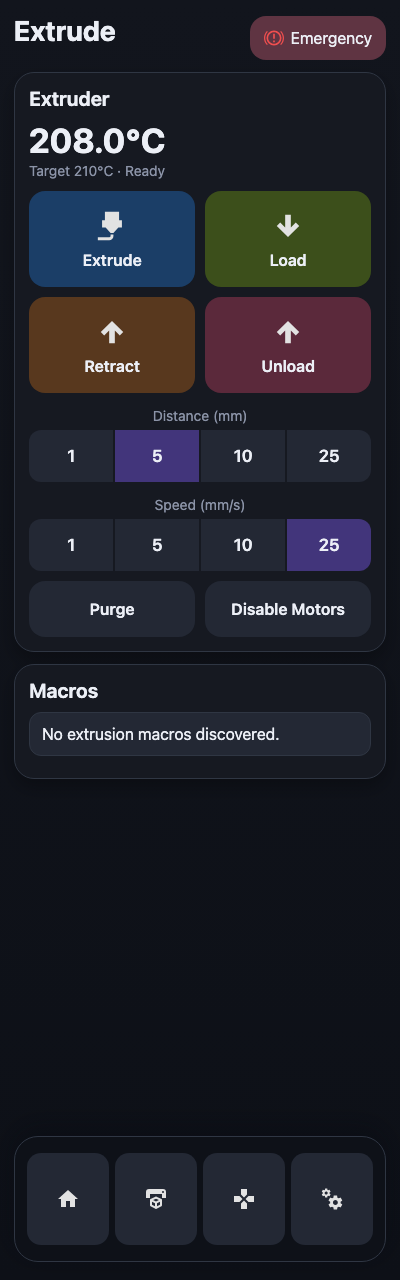
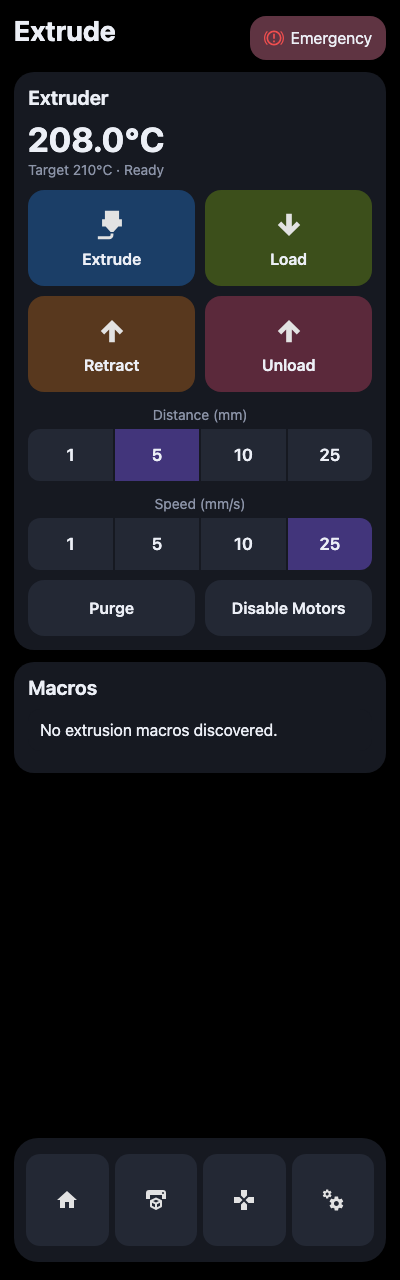
made some ui improvements

diff --git a/src/styles/theme.css b/src/styles/theme.css
@@ -61,7 +61,7 @@ body[data-theme='orange'] {
 }
 
 body[data-theme='white'] {
-  --bg: #141414;
+  --bg: #000;
   --surface: #202022;
   --surface-soft: #252527;
   --surface-strong: #303032;
@@ -104,7 +104,7 @@ button {
 body {
   margin: 0;
   min-height: 100vh;
-  background: radial-gradient(circle at 15% 0%, #1a1f2a 0%, #10131a 38%, #0b0d13 100%);
+  background: #000;
   font-family: -apple-system, BlinkMacSystemFont, 'SF Pro Text', 'Inter', sans-serif;
   color: var(--text);
   display: flex;
@@ -119,7 +119,7 @@ body {
   flex: 0 0 auto;
   border-radius: 0;
   overflow: hidden;
-  background: linear-gradient(180deg, #12151d, #0d1017);
+  background: #000;
   position: relative;
 }
 
@@ -252,9 +252,9 @@ body {
 .filament-card,
 .status-chip {
   background: var(--surface);
-  border: 1px solid var(--border);
+  border: 0;
   border-radius: var(--radius-md);
-  box-shadow: 0 8px 18px rgba(0, 0, 0, 0.28);
+  box-shadow: none;
 }
 
 .stats {
@@ -320,7 +320,7 @@ body {
   display: block;
   padding: 16px 14px;
   border-radius: 14px;
-  border: 1px solid var(--border);
+  border: 0;
   text-decoration: none;
   color: var(--text);
   font-size: calc(21px * var(--text-scale, 1));
@@ -413,17 +413,13 @@ body {
   text-decoration: none;
 }
 
-.btn:active:not(:disabled) {
-  background: color-mix(in srgb, var(--accent) 40%, var(--surface-strong));
-}
-
 .file-item,
 .console-line,
 .macro-item {
   padding: 12px 12px;
-  border: 1px solid var(--border);
+  border: 0;
   border-radius: 12px;
-  background: var(--surface-strong);
+  background: var(--surface);
   margin-bottom: 8px;
 }
 
@@ -603,8 +599,8 @@ body {
 .media-thumb {
   border-radius: 14px;
   overflow: hidden;
-  border: 1px solid var(--border);
-  background: var(--surface-strong);
+  border: 0;
+  background: var(--surface);
 }
 
 .thumb-gap {
@@ -660,11 +656,11 @@ body {
   grid-template-columns: repeat(var(--dock-item-count, 4), minmax(0, 1fr));
   gap: 6px;
   padding: 16px 12px;
-  border: 1px solid var(--border);
+  border: 0;
   border-radius: 24px;
-  background: rgba(14, 17, 24, 0.96);
+  background: var(--surface);
   min-height: 110px;
-  box-shadow: 0 -8px 24px rgba(8, 10, 16, 0.42);
+  box-shadow: none;
   z-index: 20;
 }
 
@@ -717,9 +713,9 @@ body {
 
 .temp-graph-wrap,
 .exclude-plate-wrap {
-  border: 1px solid var(--border);
+  border: 0;
   border-radius: 12px;
-  background: #11151d;
+  background: var(--surface);
   padding: 8px;
 }
 
@@ -926,10 +922,10 @@ body {
 .modal-card {
   width: min(360px, 92vw);
   background: var(--surface);
-  border: 1px solid var(--border);
+  border: 0;
   border-radius: var(--radius-md);
   padding: 14px;
-  box-shadow: 0 10px 30px rgba(0, 0, 0, 0.42);
+  box-shadow: none;
 }
 
 .exclude-dialog-content,
@@ -1055,10 +1051,6 @@ body {
   stroke-width: 1;
 }
 
-.jog-segment:active path {
-  fill: color-mix(in srgb, var(--accent) 55%, var(--surface-strong));
-}
-
 .jog-inner-ring {
   fill: #11151d;
   stroke: var(--border);
@@ -1071,8 +1063,9 @@ body {
   stroke-width: 1;
 }
 
+.jog-segment:active path,
 .jog-home:active circle {
-  fill: color-mix(in srgb, var(--accent) 55%, var(--surface-strong));
+  fill: var(--accent);
 }
 
 .jog-segment,
@@ -1111,8 +1104,8 @@ body {
   height: 96px;
   border-radius: 10px;
   overflow: hidden;
-  border: 1px solid var(--border);
-  background: #0f1218;
+  border: 0;
+  background: var(--surface);
   display: flex;
   align-items: center;
   justify-content: center;
@@ -1222,10 +1215,6 @@ body {
 
 .print-temp-button:last-child {
   border-right: 0;
-}
-
-.print-temp-button:active {
-  background: var(--surface-strong);
 }
 
 .print-temp-current {
@@ -1499,10 +1488,6 @@ body {
   touch-action: manipulation;
 }
 
-.key:active {
-  background: color-mix(in srgb, var(--accent) 45%, var(--surface-strong));
-}
-
 .key-wide {
   flex: 1.5 1 0;
   max-width: clamp(58px, 10vw, 108px);
@@ -1635,10 +1620,6 @@ body {
   color: var(--text-muted);
   font-size: calc(12px * var(--text-scale, 1));
   margin-top: 4px;
-}
-
-.tune-btn:active {
-  background: color-mix(in srgb, var(--accent) 38%, var(--surface-strong));
 }
 
 .tune-reset {
@@ -2148,7 +2129,12 @@ a:is(.primary, .action-link, .icon-btn, .btn),
 .dock a,
 .dock a.active {
   border: 0;
-  transition: transform 120ms ease, filter 120ms ease, background-color 120ms ease;
+}
+
+button,
+a,
+[role='button'] {
+  transition: transform 120ms ease, background-color 120ms ease;
 }
 
 .icon-btn,
@@ -2210,15 +2196,23 @@ button:disabled,
 }
 
 button:not(:disabled):active,
-a:is(.primary, .action-link, .icon-btn, .btn):active,
-.dock a:active {
+a:active,
+[role='button']:active {
+  background: var(--accent);
   transform: scale(0.96);
-  filter: brightness(1.2);
+}
+
+:is(a.primary, button.btn.accent, .dock a.active):active {
+  background: color-mix(in srgb, var(--accent) 82%, #000);
+}
+
+button.emergency-btn:active {
+  background: color-mix(in srgb, var(--danger) 22%, var(--surface-strong));
 }
 
 button:focus-visible,
-a:is(.primary, .action-link, .icon-btn, .btn):focus-visible,
-.dock a:focus-visible,
+a:focus-visible,
+[role='button']:focus-visible,
 .jog-segment:focus-visible,
 .jog-home:focus-visible {
   outline: 2px solid currentColor;
@@ -2226,9 +2220,9 @@ a:is(.primary, .action-link, .icon-btn, .btn):focus-visible,
 }
 
 @media (prefers-reduced-motion: reduce) {
-  button[class][class],
-  a:is(.primary, .action-link, .icon-btn, .btn),
-  .dock a {
+  button,
+  a,
+  [role='button'] {
     transition: none;
   }
 }
